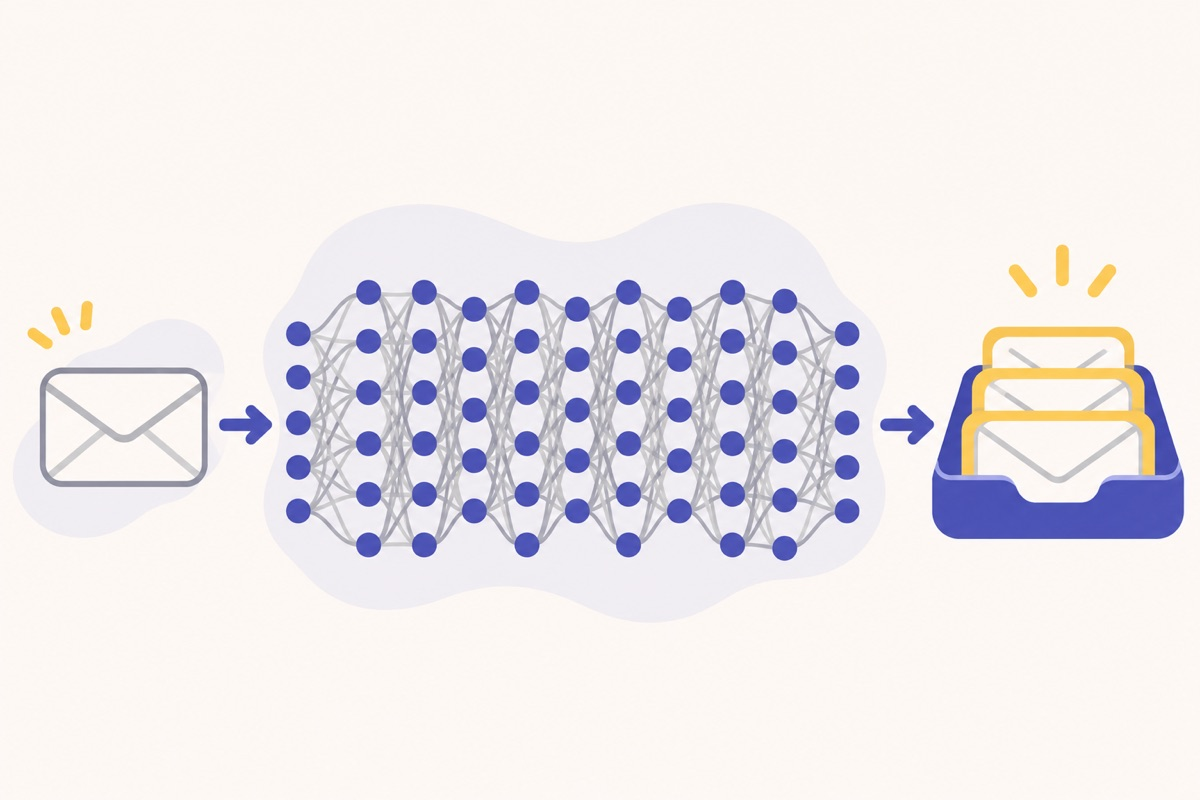
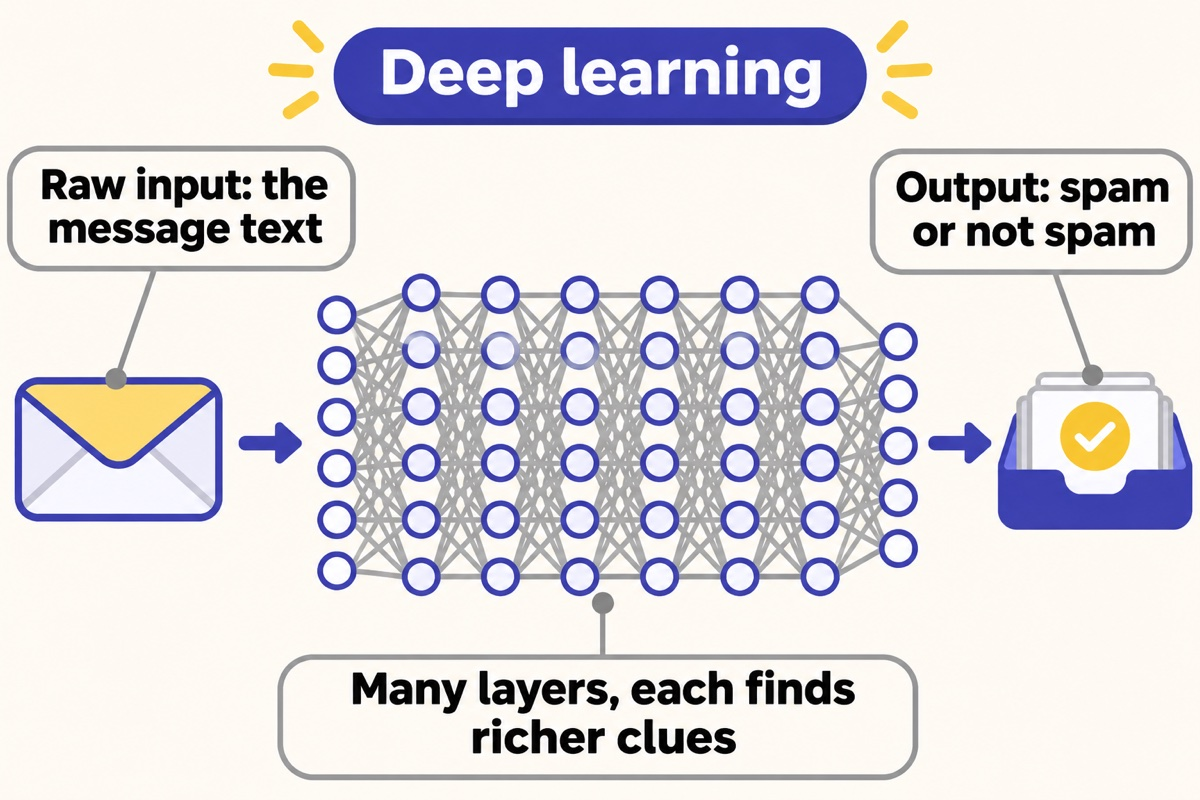
c1-01: labelled illustrations; route-planner image for designed AI

Changed region(s): [[0.0, 0.0312, 1.0, 1.0]]

diff --git a/src/lessons/genai-basics/c1-01/Lesson.tsx b/src/lessons/genai-basics/c1-01/Lesson.tsx
@@ -79,8 +79,8 @@ export default function Lesson() {
         <h2 tabIndex={-1}>Artificial intelligence: the outer ring.</h2>
         <Figure
           src="/lessons/c1-01/ai-rules.jpg"
-          alt="A person writing if-then rules on cards that feed a simple machine sorting envelopes into two trays."
-          caption="Rules written by a person, doing a job by themselves."
+          alt="A road map with a start and an end pin and a highlighted shortest route. Labels: Designed by people; Map and road costs set by people; Search finds the shortest route; Nothing is learned from data."
+          caption="Designed AI: people set the map and the costs, and a search finds the route."
         />
         <p>
           <strong>Artificial intelligence</strong> is the whole box in the
@@ -113,7 +113,7 @@ export default function Lesson() {
         <h2 tabIndex={-1}>Machine learning: learning from examples.</h2>
         <Figure
           src="/lessons/c1-01/ai-ml.jpg"
-          alt="Many example envelopes tagged with ticks and crosses flow into a machine that learns a pattern and sorts a new envelope on its own."
+          alt="Labelled example envelopes flow into a machine that then sorts a new message into a ticked or crossed tray. Labels: Machine learning; Many labelled examples; The machine learns the pattern; Sorts a new message."
           caption="Show the system many examples and let it find the pattern."
         />
         <p>
@@ -136,7 +136,7 @@ export default function Lesson() {
         <h2 tabIndex={-1}>Deep learning: many layers.</h2>
         <Figure
           src="/lessons/c1-01/ai-dl.jpg"
-          alt="A neural network drawn as many columns of connected nodes, turning a raw envelope image on the left into a sorted result on the right."
+          alt="An envelope enters a neural network with many layers and a result tray comes out. Labels: Deep learning; Raw input: the message text; Many layers, each finds richer clues; Output: spam or not spam."
           caption="Many layers, each building on the one before."
         />
         <p>
@@ -161,7 +161,7 @@ export default function Lesson() {
         <h2 tabIndex={-1}>Generative AI: making something new.</h2>
         <Figure
           src="/lessons/c1-01/ai-genai.jpg"
-          alt="A machine producing something new: a blank page filling with a freshly written letter, next to a small painting and a sound wave."
+          alt="A speech bubble feeds a machine that outputs a page, a painting and a sound wave. Labels: Generative AI; Your request; A model trained to generate; New text, image or audio."
           caption="New text, images or audio, not a stored copy."
         />
         <p>

diff --git a/docs/lesson-reports/genai-basics/c1-01.md b/docs/lesson-reports/genai-basics/c1-01.md
@@ -34,7 +34,7 @@
 | GenAI: models trained to produce new content, mostly built with deep learning today; not all deep learning generates | general fact, hedged ("mostly") | not separately sourced | rings, limits |
 | Some diagrams treat GenAI as a use of deep learning, not its own ring | general fact | not separately sourced | limits |
 | Postbox app and its rules, models and examples | invented, illustrative sketches | none | sorter disclosure |
-| Illustrations | generated with Codex image generation; stylised, no text, not literal diagrams of any real system | none | figure captions |
+| Illustrations | generated with Codex image generation; stylised, with short explanatory labels (spelling checked by eye), not literal diagrams of any real system | none | figure captions |
 
 For a subject-matter reviewer: whether the nested-ring framing of GenAI inside deep learning is acceptable for beginners (the lesson notes the alternative view).
 
